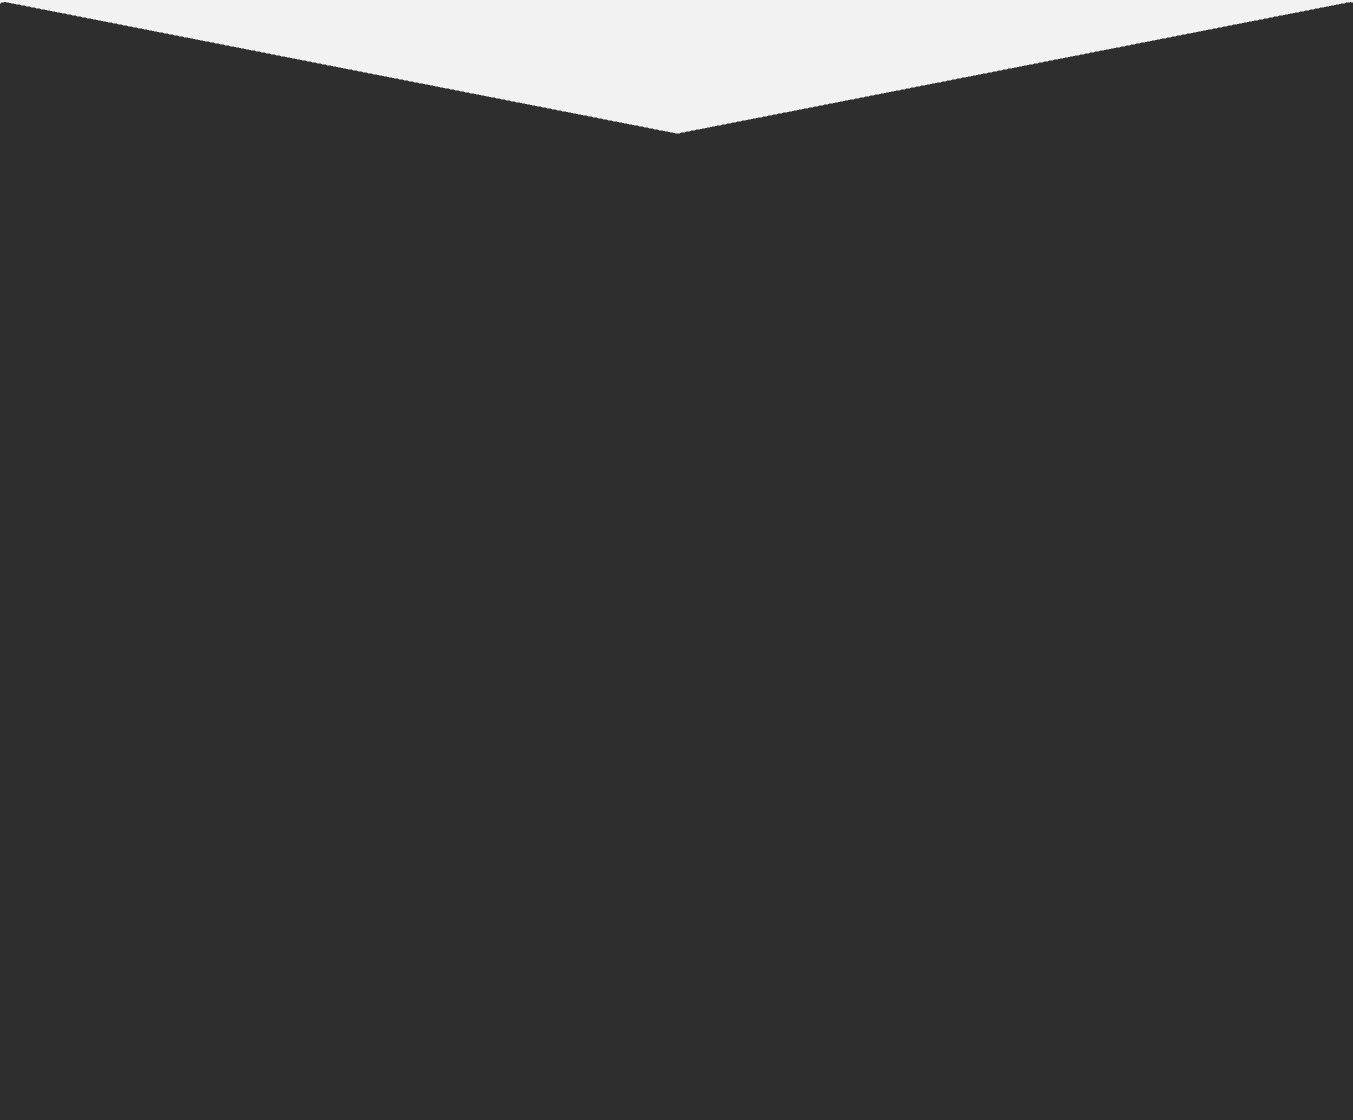
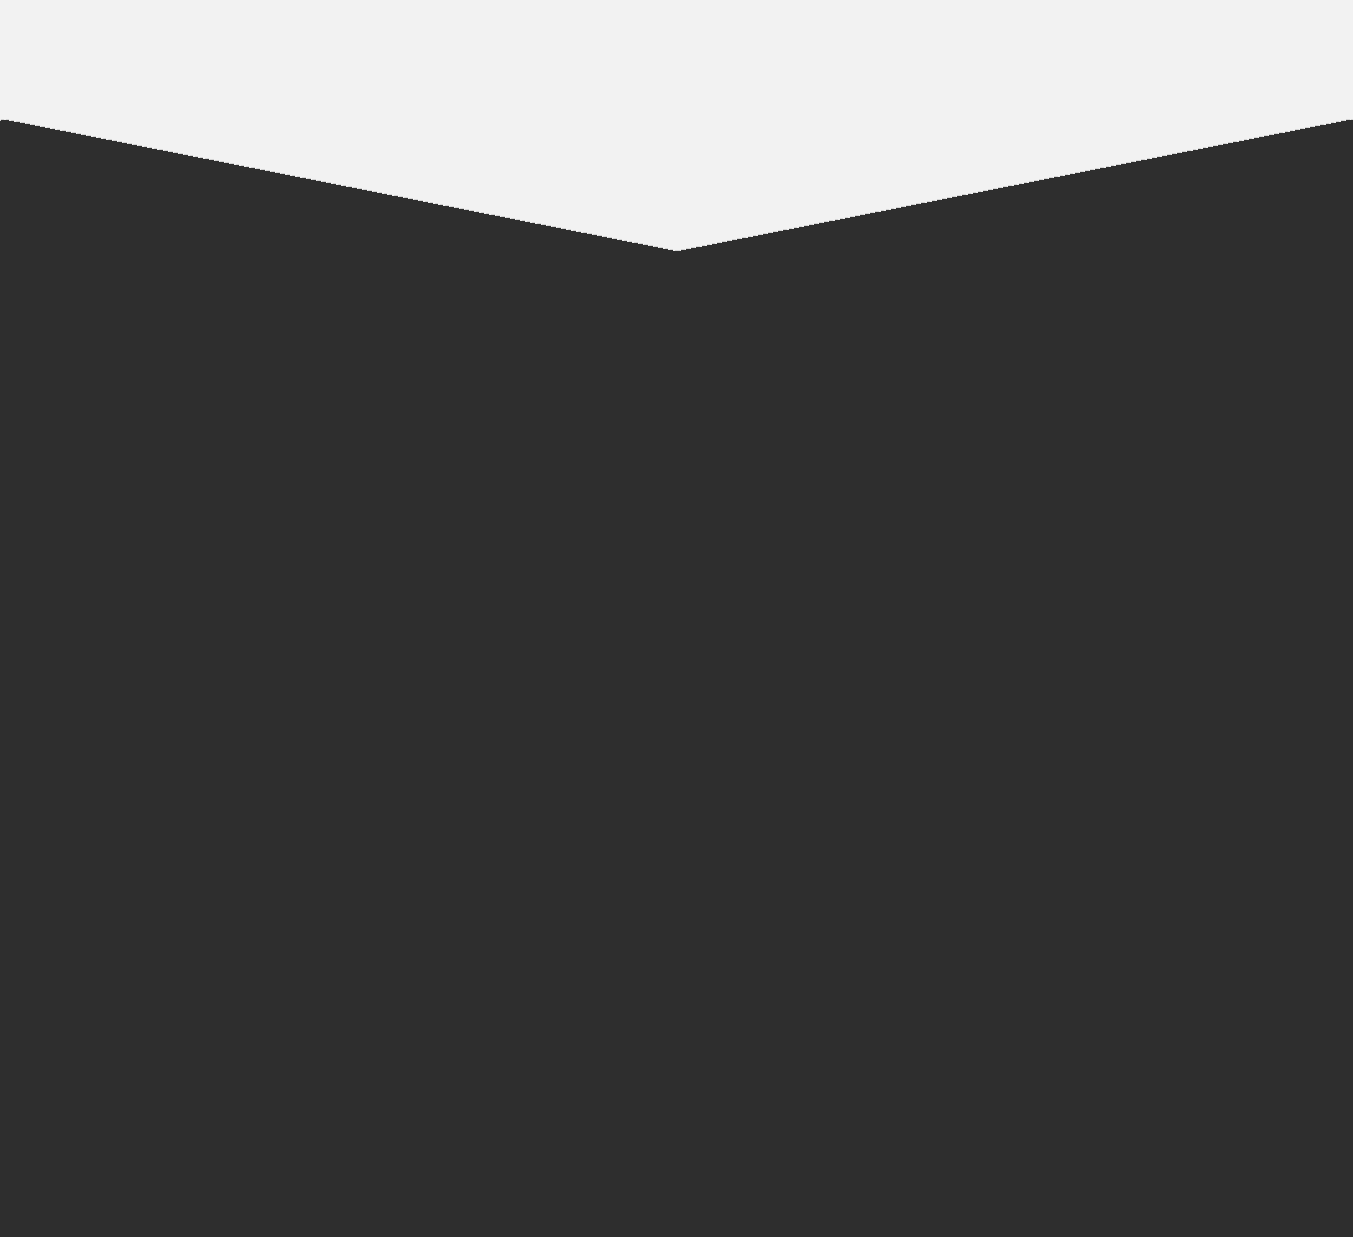
contact header placement

Changed region(s): [[0.0, 0.0, 1.0, 0.2188]]

diff --git a/resources/css/style.css b/resources/css/style.css
@@ -396,14 +396,14 @@ progress[value]::-webkit-progress-value {
     background: url(img/achtergrond%20contact.png);
     background-size: cover;
     background-position: top;
-    height: 80vh;
+    height: 100vh;
     
 }
 .contact-form {
     display: block;
     text-align: center;
     width: 60%;
-    margin: 120px auto;
+    margin: 260px auto;
 }
 input,
 textarea {
